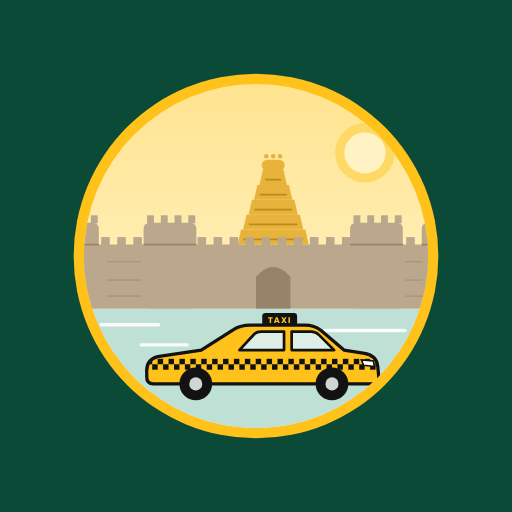
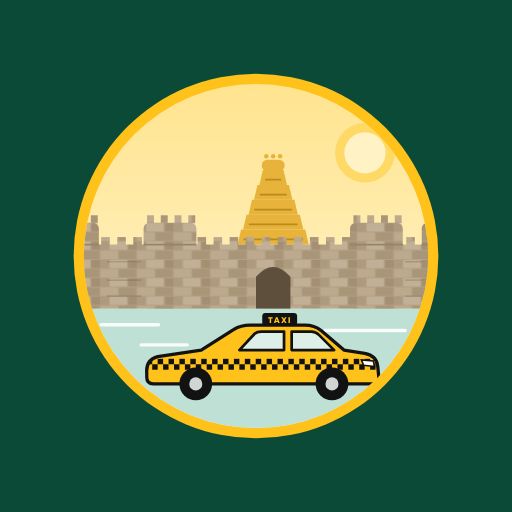
Fort walls drawn as granite stone blocks
Claude-Session: https://claude.ai/code/session_012AzHw7bwToB8LFZ2KgyNPf

diff --git a/office/index.html b/office/index.html
@@ -8,8 +8,8 @@
 <meta name="apple-mobile-web-app-capable" content="yes">
 <meta name="robots" content="noindex">
 <link rel="manifest" href="./manifest.webmanifest">
-<link rel="icon" type="image/png" href="./icon-192.png?v=7">
-<link rel="apple-touch-icon" href="./apple-touch-icon.png?v=7">
+<link rel="icon" type="image/png" href="./icon-192.png?v=8">
+<link rel="apple-touch-icon" href="./apple-touch-icon.png?v=8">
 <meta name="apple-mobile-web-app-title" content="VCT Office">
 <link rel="stylesheet" href="https://unpkg.com/leaflet@1.9.4/dist/leaflet.css">
 <script src="https://unpkg.com/leaflet@1.9.4/dist/leaflet.js"></script>
@@ -1117,7 +1117,7 @@ function badge(k){if(k==='book')return DB.bk.filter(b=>b.status==='searching'||(
 function layout(){
   const secs=SECS();if(!secs.some(s=>s[0]===S.sec))S.sec='dash';
   const mob=secs.slice(0,4).concat([['more','more',L('மேலும்','More')]]);
-  app.innerHTML=`<div class="olay"><aside class="side"><div class="brand"><img src="https://ajith12061995.github.io/vellorecalltaxi/office/icon-192.png?v=7" alt="" style="width:40px;height:40px;border-radius:10px;flex:none" onerror="this.style.visibility='hidden'"><div><b>Vellore Taxi</b><small>${S.role==='owner'?'Owner':'Staff'} panel</small></div></div>
+  app.innerHTML=`<div class="olay"><aside class="side"><div class="brand"><img src="https://ajith12061995.github.io/vellorecalltaxi/office/icon-192.png?v=8" alt="" style="width:40px;height:40px;border-radius:10px;flex:none" onerror="this.style.visibility='hidden'"><div><b>Vellore Taxi</b><small>${S.role==='owner'?'Owner':'Staff'} panel</small></div></div>
     <nav class="snav">${secs.map(([k,ic,l])=>`<button data-sec="${k}" class="${S.sec===k?'on':''}">${I[ic]}<span>${l}</span>${badge(k)?`<em>${badge(k)}</em>`:''}</button>`).join('')}</nav>
     <button class="newbk" id="nb1">+ ${L('புது Booking','New booking')}</button>
     <div class="sfoot"><button id="lg1">${S.lang==='ta'?'English':'தமிழ்'}</button><button id="lo1">Logout</button></div></aside>
@@ -1145,7 +1145,7 @@ const dPill=s=>`<em class="dst ${s}">${({avail:L('காலி','Available'),pic
 /* ---------- login ---------- */
 function login(){
   if(CL)return cloudLogin();
-  app.innerHTML=`<section class="ologin"><div class="lcard"><div class="brand"><img src="https://ajith12061995.github.io/vellorecalltaxi/office/icon-192.png?v=7" alt="" style="width:40px;height:40px;border-radius:10px;flex:none" onerror="this.style.visibility='hidden'"><div><b>Vellore Taxi</b><small>Owner / Staff panel</small></div></div>
+  app.innerHTML=`<section class="ologin"><div class="lcard"><div class="brand"><img src="https://ajith12061995.github.io/vellorecalltaxi/office/icon-192.png?v=8" alt="" style="width:40px;height:40px;border-radius:10px;flex:none" onerror="this.style.visibility='hidden'"><div><b>Vellore Taxi</b><small>Owner / Staff panel</small></div></div>
     <h1>${L('உள்ளே வாங்க','Sign in')}</h1>
     <div class="seg"><button class="${S.role==='owner'?'on':''}" data-r="owner">Owner</button><button class="${S.role==='staff'?'on':''}" data-r="staff">Staff</button></div>
     <label class="kind" for="ph">${L('மொபைல் நம்பர்','Mobile number')}</label><div class="field"><span class="cc">+91</span><input id="ph" inputmode="numeric" maxlength="10" value="${esc(S.phone)}"></div>
@@ -1424,7 +1424,7 @@ const cloudP=(window.CLOUD_READY||Promise.resolve(null)).then(c=>{CL=c||null;ret
 const F=()=>CL.fs;const ts=()=>F().serverTimestamp();
 const shortB=id=>'B'+id.slice(0,5).toUpperCase();
 const placeK=k=>({key:k,ta:P[k].ta,en:P[k].en,lat:P[k].lat,lon:P[k].lon});
-function cardScreen(h,p,btn,fn){app.innerHTML=`<section class="ologin"><div class="lcard"><div class="brand"><img src="https://ajith12061995.github.io/vellorecalltaxi/office/icon-192.png?v=7" alt="" style="width:40px;height:40px;border-radius:10px;flex:none" onerror="this.style.visibility='hidden'"><div><b>Vellore Taxi</b><small>Owner / Staff panel</small></div></div><h1>${h}</h1><p class="muted" style="margin:0">${p}</p><button class="btn" id="cb">${btn}</button></div></section>`;document.getElementById('cb').onclick=fn}
+function cardScreen(h,p,btn,fn){app.innerHTML=`<section class="ologin"><div class="lcard"><div class="brand"><img src="https://ajith12061995.github.io/vellorecalltaxi/office/icon-192.png?v=8" alt="" style="width:40px;height:40px;border-radius:10px;flex:none" onerror="this.style.visibility='hidden'"><div><b>Vellore Taxi</b><small>Owner / Staff panel</small></div></div><h1>${h}</h1><p class="muted" style="margin:0">${p}</p><button class="btn" id="cb">${btn}</button></div></section>`;document.getElementById('cb').onclick=fn}
 async function cloudBootO(){
   const c=await cloudP;
   if(!c){if(ON_PAGES){cardScreen(L('Internet இல்லை','You are offline'),L('Connection-ஐ பார்த்துட்டு மறுபடி முயற்சி பண்ணுங்க.','Check your connection and try again.'),L('மறுபடி முயற்சி','Try again'),()=>location.reload());return true}return false}
@@ -1490,7 +1490,7 @@ function updBadges(){app.querySelectorAll('[data-sec]').forEach(b=>{const n=badg
 const cw=(p)=>p.catch(e=>{oerr(e);toast(CL.errText(e,S.lang==='ta'))});
 function bkRef(b){return F().doc(CL.db,'bookings',b._id)}
 function cloudLogin(){
-  app.innerHTML=`<section class="ologin"><div class="lcard"><div class="brand"><img src="https://ajith12061995.github.io/vellorecalltaxi/office/icon-192.png?v=7" alt="" style="width:40px;height:40px;border-radius:10px;flex:none" onerror="this.style.visibility='hidden'"><div><b>Vellore Taxi</b><small>Owner / Staff panel</small></div></div>
+  app.innerHTML=`<section class="ologin"><div class="lcard"><div class="brand"><img src="https://ajith12061995.github.io/vellorecalltaxi/office/icon-192.png?v=8" alt="" style="width:40px;height:40px;border-radius:10px;flex:none" onerror="this.style.visibility='hidden'"><div><b>Vellore Taxi</b><small>Owner / Staff panel</small></div></div>
     <h1>${L('உள்ளே வாங்க','Sign in')}</h1><p class="muted" style="margin:0">${L('Owner அல்லது staff நம்பர்ல login பண்ணுங்க','Use the owner or staff number')}</p>
     <label class="kind" for="ph">${L('மொபைல் நம்பர்','Mobile number')}</label><div class="field"><span class="cc">+91</span><input id="ph" inputmode="numeric" maxlength="10" value="${esc(S.phone)}"></div>
     <div id="ow" hidden><label class="kind" for="otp">OTP</label><div class="field"><input id="otp" inputmode="numeric" maxlength="6" autocomplete="one-time-code" placeholder="••••••"></div></div>
@@ -1509,7 +1509,7 @@ function cloudLogin(){
   setTimeout(()=>ph.focus(),200);
 }
 
-app.innerHTML='<section class="ologin"><div class="lcard"><div class="brand"><img src="https://ajith12061995.github.io/vellorecalltaxi/office/icon-192.png?v=7" alt="" style="width:40px;height:40px;border-radius:10px;flex:none" onerror="this.style.visibility=\'hidden\'"><div><b>Vellore Taxi</b><small>Loading…</small></div></div></div></section>';
+app.innerHTML='<section class="ologin"><div class="lcard"><div class="brand"><img src="https://ajith12061995.github.io/vellorecalltaxi/office/icon-192.png?v=8" alt="" style="width:40px;height:40px;border-radius:10px;flex:none" onerror="this.style.visibility=\'hidden\'"><div><b>Vellore Taxi</b><small>Loading…</small></div></div></div></section>';
 cloudP.then(async()=>{if(await cloudBootO())return;if(S.logged){startSim(liveRefresh);show()}else login()});
 
 </script>

diff --git a/index.html b/index.html
@@ -7,8 +7,8 @@
 <meta name="mobile-web-app-capable" content="yes">
 <meta name="apple-mobile-web-app-capable" content="yes">
 <link rel="manifest" href="./manifest.webmanifest">
-<link rel="icon" type="image/png" href="./icon-192.png?v=7">
-<link rel="apple-touch-icon" href="./apple-touch-icon.png?v=7">
+<link rel="icon" type="image/png" href="./icon-192.png?v=8">
+<link rel="apple-touch-icon" href="./apple-touch-icon.png?v=8">
 <meta name="apple-mobile-web-app-title" content="Vellore Taxi">
 <link rel="stylesheet" href="https://unpkg.com/leaflet@1.9.4/dist/leaflet.css">
 <script src="https://unpkg.com/leaflet@1.9.4/dist/leaflet.js"></script>
@@ -591,7 +591,7 @@ function langScreen(){
   });
 }
 function login(){
-  go(`<section class="screen"><div class="hero pad"><img src="./brand/logo-main.png?v=7" alt="Vellore Taxi" style="height:150px;display:block;margin:0 auto 8px" onerror="this.remove()"><span class="mini">${t('tagline')}</span><h1>${t('loginH')}</h1><p>${t('loginP')}</p>
+  go(`<section class="screen"><div class="hero pad"><img src="./brand/logo-main.png?v=8" alt="Vellore Taxi" style="height:150px;display:block;margin:0 auto 8px" onerror="this.remove()"><span class="mini">${t('tagline')}</span><h1>${t('loginH')}</h1><p>${t('loginP')}</p>
     <div style="display:flex;gap:12px;margin-top:8px;flex-wrap:wrap">${I.bike}${I.auto}${I.mini}${I.car}${I.suv}</div></div>
   <div class="body pad"><label class="muted" for="ph" style="font-weight:600">${t('phone')}</label>
    <div class="field"><span class="cc">+91</span><input id="ph" inputmode="numeric" maxlength="10" autocomplete="tel" value="${S.phone}" placeholder="98765 43210"></div>

diff --git a/driver/index.html b/driver/index.html
@@ -8,8 +8,8 @@
 <meta name="apple-mobile-web-app-capable" content="yes">
 <meta name="robots" content="noindex">
 <link rel="manifest" href="./manifest.webmanifest">
-<link rel="icon" type="image/png" href="./icon-192.png?v=7">
-<link rel="apple-touch-icon" href="./apple-touch-icon.png?v=7">
+<link rel="icon" type="image/png" href="./icon-192.png?v=8">
+<link rel="apple-touch-icon" href="./apple-touch-icon.png?v=8">
 <meta name="apple-mobile-web-app-title" content="VCT Driver">
 <link rel="stylesheet" href="https://unpkg.com/leaflet@1.9.4/dist/leaflet.css">
 <script src="https://unpkg.com/leaflet@1.9.4/dist/leaflet.js"></script>

diff --git a/privacy/index.html b/privacy/index.html
@@ -5,7 +5,7 @@
 <meta name="viewport" content="width=device-width,initial-scale=1">
 <title>Privacy &amp; Terms · Vellore Taxi</title>
 <meta name="description" content="Vellore Taxi — Privacy Policy and Terms of Use (Tamil and English)">
-<link rel="icon" type="image/png" href="../icon-192.png?v=7">
+<link rel="icon" type="image/png" href="../icon-192.png?v=8">
 <link rel="preconnect" href="https://fonts.googleapis.com">
 <link rel="stylesheet" href="https://fonts.googleapis.com/css2?family=Baloo+Thambi+2:wght@600;800&family=Hind+Madurai:wght@400;500;600;700&display=swap">
 <style>
